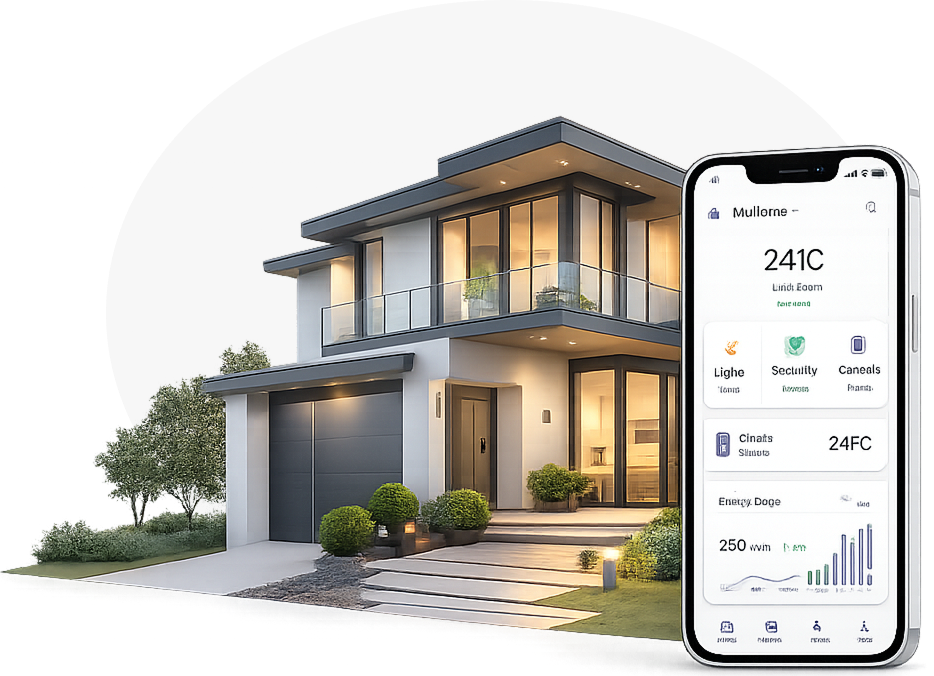
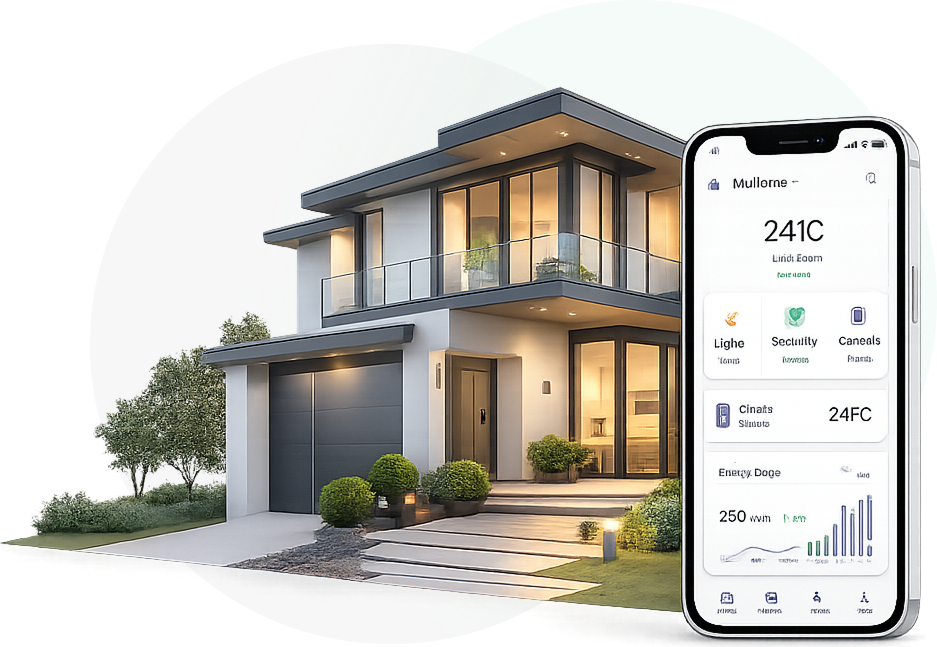
feature-page-3

Changed region(s): [[0.0, 0.1236, 0.9936, 0.9892]]

diff --git a/features.html b/features.html
@@ -75,7 +75,7 @@
                 <div onclick="toggle()" class="toggle-mobile text-2xl  block lg:hidden px-3 "><i
                         class="fa-solid fa-bars text-heading flex items-center bg-gradient-to-r from-gradientStart to-gradientEnd bg-clip-text text-transparent"></i>
                     </div>
-                    <div id="toggle" class="mobile-menu absolute top-full left-0 w-full h-0 bg-white rounded-lg transition-all duration-300 ease overflow-hidden">
+                    <div id="toggle-feature" class="mobile-menu absolute top-full left-0 w-full h-0 bg-white rounded-lg transition-all duration-300 ease overflow-hidden">
                         <ul>
                             <li class="text-md text-[#64748B] font-medium"><a class="decoration-none px-4 py-2 block"
                             href="#">Home</a></li>
@@ -98,8 +98,8 @@
         <div class="container mx-auto px-4 ">
             <div class="grid grid-cols-12 items-center">
                 <div class="hero-content order-2 lg:order-1 PX-3 py-5 col-span-12 lg:col-span-5">
-                    <div class="badge px-4 py-1 rounded-2xl bg-[#EEEEF1] inline-block ">
-                        <span class=" text-sm  text-[#5B5FEF] font-semibold uppercase">Features</span>
+                    <div class="badge px-4 py-1 rounded-2xl bg-gradient-to-r from-gradientStart/20 to-gradientEnd/20 inline-block ">
+                        <span class=" text-sm  text-[#5B5FEF] font-bold uppercase">Features</span>
                     </div>
                     <h1 class="text-2xl sm:text-5xl/[60px]  font-bold text-[#0F172A] mt-5 font-main mb-5  ">Everything You Need 
                         <!-- <br class="hidden sm:block"> -->
@@ -134,20 +134,20 @@
 
 <div class="container mx-auto px-3 mt-10">
     <div class="title text-center mb-10">
-        <span class="text-primary font-medium text-md uppercase">Experinace Smart Living</span>
-<h2 class="text-bold text-2xl font-main">Smart Features for Every Part of Your Home</h2>
+        <span class="text-primary font-bold font-sens text-xs uppercase">Experinace Smart Living</span>
+        <h2 class="text-bold text-2xl font-main">Smart Features for Every Part of Your Home</h2>
     </div>
 
 <div class="smart-features">
     <div class="grid grid-cols-1 lg:grid-cols-2 gap-5">
         <div class="card group">
             <div class="grid grid-cols-12 rounded-2xl shadow-2xl overflow-hidden items-center">
-                <div class="smart-photo col-span-12 sm:col-span-7 w-full overflow-hidden ">
-                    <img class="w-full group-hover:scale-[1.1] h-60  transition-all duration-300 ease" src="https://images.pexels.com/photos/1571458/pexels-photo-1571458.jpeg">
+                <div class="smart-photo col-span-12 sm:col-span-7 h-60 w-full overflow-hidden ">
+                    <img class="w-full group-hover:scale-[1.1] h-full object-cover block  transition-all duration-300 ease" src="https://images.pexels.com/photos/1571458/pexels-photo-1571458.jpeg">
                 </div>
                 <div class="smart-content col-span-12 sm:col-span-5 px-8 py-4">
-                    <div class="icon items-center justify-center bg-primary/20 size-10 rounded-full flex border border-primary mb-3 transition-all duration-300 ease group-hover:scale-[1.1]">
-                        <i class="fa-solid fa-couch text-primary font-bold text-lg"></i>
+                    <div class="icon items-center justify-center bg-orange-100 size-10 rounded-full flex border border-orange-400 mb-3 transition-all duration-300 ease group-hover:scale-[1.1]">
+                        <i class="fa-solid fa-couch text-orange-700 font-bold text-lg"></i>
                     </div>
                     <h4 class="text-lg font-main font-semibold mb-2">Smart Living Room</h4>
                     <p class="text-gray-500 text-sm font-medium mb-3" >control lights, TV, music, curtains and more - all from one place.</p>
@@ -158,12 +158,12 @@
         </div>
         <div class="card group">
             <div class="grid grid-cols-12 rounded-2xl shadow-2xl overflow-hidden items-center">
-                <div class="smart-photo col-span-12 sm:col-span-7 w-full overflow-hidden ">
-                    <img class="w-full group-hover:scale-[1.1] h-60 transition-all duration-300 ease" src="https://plus.unsplash.com/premium_photo-1661962493427-910e3333cf5a?q=80&w=880&auto=format&fit=crop&ixlib=rb-4.1.0&ixid=M3wxMjA3fDB8MHxwaG90by1wYWdlfHx8fGVufDB8fHx8fA%3D%3D">
+                <div class="smart-photo col-span-12 sm:col-span-7 w-full h-60 overflow-hidden ">
+                    <img class="w-full group-hover:scale-[1.1] h-full block object-cover transition-all duration-300 ease" src="https://plus.unsplash.com/premium_photo-1661962493427-910e3333cf5a?q=80&w=880&auto=format&fit=crop&ixlib=rb-4.1.0&ixid=M3wxMjA3fDB8MHxwaG90by1wYWdlfHx8fGVufDB8fHx8fA%3D%3D">
                 </div>
                 <div class="smart-content col-span-12 sm:col-span-5 px-8 py-4">
-                    <div class="icon items-center justify-center bg-primary/20 size-10 rounded-full flex border border-primary mb-3 transition-all duration-300 ease group-hover:scale-[1.1]">
-                        <i class="fa-solid fa-bed text-primary font-bold text-lg"></i>
+                    <div class="icon items-center justify-center bg-purple-100 size-10 rounded-full flex border border-purple-400 mb-3 transition-all duration-300 ease group-hover:scale-[1.1]">
+                        <i class="fa-solid fa-bed text-purple-700 font-bold text-lg"></i>
                     </div>
                     <h4 class="text-lg font-main font-semibold mb-2">Smart Bed Room</h4>
                     <p class="text-gray-500 text-sm font-medium mb-3" >Perfect lighting,tempearute and routins for better sleep and comfort.</p>
@@ -174,12 +174,12 @@
         </div>
         <div class="card group">
             <div class="grid grid-cols-12 rounded-2xl shadow-2xl overflow-hidden items-center">
-                <div class="smart-photo col-span-12 sm:col-span-7 w-full overflow-hidden ">
-                    <img class="w-full group-hover:scale-[1.1] h-60 transition-all duration-300 ease" src="https://images.unsplash.com/photo-1720415353460-957325a7267d?q=80&w=1470&auto=format&fit=crop&ixlib=rb-4.1.0&ixid=M3wxMjA3fDB8MHxwaG90by1wYWdlfHx8fGVufDB8fHx8fA%3D%3D">
+                <div class="smart-photo col-span-12 sm:col-span-7 w-full h-60 overflow-hidden ">
+                    <img class="w-full h-full block object-cover group-hover:scale-[1.1]  transition-all duration-300 ease" src="https://images.unsplash.com/photo-1720415353460-957325a7267d?q=80&w=1470&auto=format&fit=crop&ixlib=rb-4.1.0&ixid=M3wxMjA3fDB8MHxwaG90by1wYWdlfHx8fGVufDB8fHx8fA%3D%3D">
                 </div>
                 <div class="smart-content col-span-12 sm:col-span-5 px-8 py-4">
-                    <div class="icon items-center justify-center bg-primary/20 size-10 rounded-full flex border border-primary mb-3 transition-all duration-300 ease group-hover:scale-[1.1]">
-                        <i class="fa-solid fa-utensils text-primary font-bold text-lg"></i>
+                    <div class="icon items-center justify-center bg-green-100 size-10 rounded-full flex border border-green-400 mb-3 transition-all duration-300 ease group-hover:scale-[1.1]">
+                        <i class="fa-solid fa-utensils text-green-600 font-bold text-lg"></i>
                     </div>
                     <h4 class="text-lg font-main font-semibold mb-2">Smart Kitchen</h4>
                     <p class="text-gray-500 text-sm font-medium mb-3" >Automate appliances, smart plugs and lighting for a smarter kitchen.</p>
@@ -190,12 +190,12 @@
         </div>
          <div class="card group">
             <div class="grid grid-cols-12 rounded-2xl shadow-2xl overflow-hidden items-center">
-                <div class="smart-photo col-span-12 sm:col-span-7 w-full overflow-hidden ">
-                    <img class="w-full group-hover:scale-[1.1] h-60 transition-all duration-300 ease" src="https://plus.unsplash.com/premium_photo-1729436833449-225649403fc0?q=80&w=1267&auto=format&fit=crop&ixlib=rb-4.1.0&ixid=M3wxMjA3fDB8MHxwaG90by1wYWdlfHx8fGVufDB8fHx8fA%3D%3D">
+                <div class="smart-photo col-span-12 sm:col-span-7 w-full  h-60 overflow-hidden ">
+                    <img class="w-full h-full block object-cover group-hover:scale-[1.1] h-60 transition-all duration-300 ease" src="https://plus.unsplash.com/premium_photo-1729436833449-225649403fc0?q=80&w=1267&auto=format&fit=crop&ixlib=rb-4.1.0&ixid=M3wxMjA3fDB8MHxwaG90by1wYWdlfHx8fGVufDB8fHx8fA%3D%3D">
                 </div>
                 <div class="smart-content col-span-12 sm:col-span-5 px-8 py-4">
-                    <div class="icon items-center justify-center bg-primary/20 size-10 rounded-full flex border border-primary mb-3 transition-all duration-300 ease group-hover:scale-[1.1]">
-                        <i class="fa-solid fa-shield text-primary font-bold text-lg"></i>
+                    <div class="icon items-center justify-center bg-red-100 size-10 rounded-full flex border border-red-400 mb-3 transition-all duration-300 ease group-hover:scale-[1.1]">
+                        <i class="fa-solid fa-shield text-red-500 font-bold text-lg"></i>
                     </div>
                     <h4 class="text-lg font-main font-semibold mb-2">Smart Security</h4>
                     <p class="text-gray-500 text-sm font-medium mb-3" >24/7 protection with cameras,sensors,smart locks and real-time alerts.</p>
@@ -206,12 +206,12 @@
         </div>
          <div class="card group">
             <div class="grid grid-cols-12 rounded-2xl shadow-2xl overflow-hidden items-center">
-                <div class="smart-photo col-span-12 sm:col-span-7 w-full overflow-hidden ">
-                    <img class="w-full group-hover:scale-[1.1] h-60 transition-all duration-300 ease" src="https://plus.unsplash.com/premium_photo-1661297461253-ae1968b5d46c?q=80&w=1470&auto=format&fit=crop&ixlib=rb-4.1.0&ixid=M3wxMjA3fDB8MHxwaG90by1wYWdlfHx8fGVufDB8fHx8fA%3D%3D">
+                <div class="smart-photo col-span-12 sm:col-span-7 w-full h-60 overflow-hidden ">
+                    <img class="w-full h-full block object-cover group-hover:scale-[1.1]  transition-all duration-300 ease" src="https://plus.unsplash.com/premium_photo-1661297461253-ae1968b5d46c?q=80&w=1470&auto=format&fit=crop&ixlib=rb-4.1.0&ixid=M3wxMjA3fDB8MHxwaG90by1wYWdlfHx8fGVufDB8fHx8fA%3D%3D">
                 </div>
                 <div class="smart-content col-span-12 sm:col-span-5 px-8 py-4">
-                    <div class="icon items-center justify-center bg-primary/20 size-10 rounded-full flex border border-primary mb-3 transition-all duration-300 ease group-hover:scale-[1.1]">
-                        <i class="fa-solid fa-bolt-lightning text-primary font-bold text-lg"></i>
+                    <div class="icon items-center justify-center bg-yellow-100 size-10 rounded-full flex border border-yellow-700 mb-3 transition-all duration-300 ease group-hover:scale-[1.1]">
+                        <i class="fa-solid fa-bolt-lightning text-yellow-600 font-bold text-lg"></i>
                     </div>
                     <h4 class="text-lg font-main font-semibold mb-2">Energy Management</h4>
                     <p class="text-gray-500 text-sm font-medium mb-3" >Track usage, get insights and save energy with intelligents automation.</p>
@@ -229,14 +229,14 @@
 <!-- section-how it work -->
  
 <div class="container mx-auto px-3 mt-20">
-    <div class="title text-center mb-20">
-        <span class="text-primary font-medium text-md uppercase">How it Work</span>
+    <div class="title text-center mb-16">
+        <span class="text-primary font-sm text-xs uppercase font-bold font-sens">How it Works</span>
 <h2 class="text-bold text-2xl font-main">A Smarter Home in 4 Simple Steps</h2>
     </div>
 
 
     <!-- installation steps process -->
-    <div class="steps ">
+    <div class="steps">
         <div class="grid grid-cols-1 sm:grid-cols-2 lg:grid-cols-4 border-0 lg:border lg:border-gray-300 rounded-2xl lg:gap-x-0 lg:gap-y-0 gap-x-5 gap-y-8">
               <div class="box-1 flex items-center px-3 py-10 relative border border-gray-300 lg:border-0 rounded-2xl">
                 <span class="size-10 text-white bg-primary font-bold flex items-center justify-center text-lg rounded-full absolute left-1/2 -translate-x-1/2 top-[-20px]">1</span>
@@ -283,13 +283,14 @@
 </div>
 
 <!-- cta section -->
+ <div class="w-ful bg-gradient-to-r from-gradientStart to-gradientEnd">
  <div class="container mx-auto px-3 mt-5">
-    <div class="cta bg-gradient-to-r from-gradientStart to-gradientEnd p-4 block lg:flex justify-between items-center rounded-2xl">
+    <div class="cta  p-4 block lg:flex justify-between items-center rounded-2xl">
         <div class="info block sm:flex  items-center gap-5">
             <div class="div flex justify-center sm:start mb-2">
-        <div class="cta-icon relative flex">
+        <div class="cta-icon relative flex group transition-all duration-300 ease">
             <i class="fa-regular fa-house text-white/50 text-8xl relative"></i>
-            <i class="fa-solid fa-wifi fa-canvas-square text-white absolute top-7 left-12"></i>
+            <i class="fa-solid fa-wifi fa-canvas-square text-white absolute top-7 left-12 text-xl group-hover:text-[#10B981]"></i>
         </div>
         </div>
         <div class="cta-text text-center sm:text-start">
@@ -303,14 +304,14 @@
 
 <div class="cta-btn mt-6 lg:mt-0">
     <div class="btn flex sm:flex-row flex-col  items-center ">
-        <button class="btn-primary  text-primary px-8 py-3 bg-white rounded-full font-semibold text-md hover:text-white hover:bg-primary hover:shadow-lg mr-0 sm:mr-5 mb-3  sm:mb-0 ">Get Started Now</button>
-        <button class="btn-secondary text-white px-8 py-3 bg-transparent rounded-full font-semibold text-md border border-white hover:text-white hover:bg-primary hover:shadow-lg">Contact Us</button>
+        <button class="btn-primary  text-primary px-8 py-3 bg-white rounded-full font-semibold text-md hover:text-white transition-all duration-300 ease hover:bg-primary hover:shadow-lg mr-0 sm:mr-5 mb-3  sm:mb-0 ">Get Started Now</button>
+        <button class="btn-secondary text-white px-8 py-3 bg-transparent rounded-full font-semibold text-md border border-white transition-all duration-300 ease hover:border-primary hover:text-primary hover:shadow-lg">Contact Us</button>
 
     </div>
 </div>
 
     </div>
-
+</div>
  </div>
 
  <!-- footer -->
@@ -395,7 +396,21 @@
         </div>
      </div>
 
+<script>
+     let i =document.getElementById('toggle-feature')
+        function toggle(){
+          if(i.style.height==='320px'){
+              i.style.height='0'
+          }
+          else {
+            i.style.height='320px'
+          }
 
+        }
+
+    
+
+</script>
 
 
 

diff --git a/index.html b/index.html
@@ -751,7 +751,6 @@
 
 
      <script>
-
         let i =document.getElementById('toggle')
         function toggle(){
           if(i.style.height==='320px'){